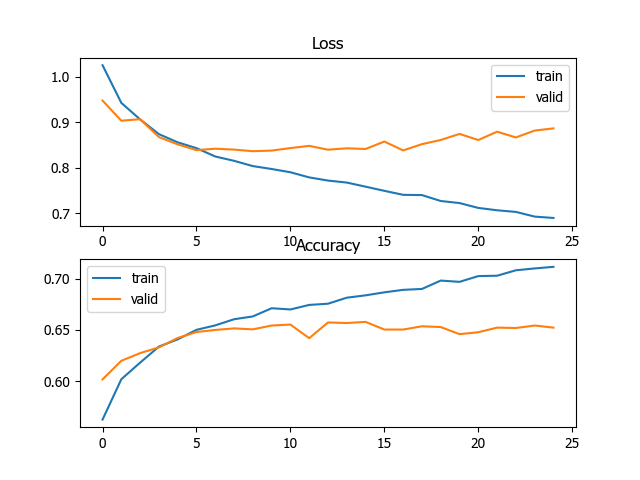
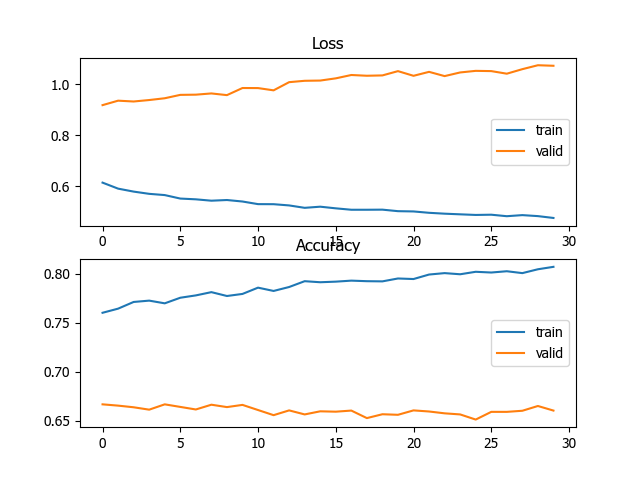
added params searching for base line cnn.

diff --git a/src/models/deep.py b/src/models/deep.py
@@ -1,0 +1,113 @@
+
+'''
+We implemented our CNN and bi-LSTM based on the model arch and param search strategy of the paper: (Pasupa & Seneewong Na Ayutthaya, 2022) 
+'''
+import sys
+
+import numpy as np
+import pandas as pd
+import src.utilities as utils
+import talos
+import tensorflow as tf
+import tensorflow_addons as tfa
+from gensim.models import Word2Vec
+from keras.layers import (LSTM, Conv1D, Dense, Dropout, Embedding, Flatten,
+                          Input, MaxPooling1D)
+from keras.models import Sequential
+from keras.preprocessing.sequence import pad_sequences
+from keras.preprocessing.text import Tokenizer
+from matplotlib import pyplot
+from sklearn.metrics import f1_score
+from sklearn.model_selection import train_test_split
+from tensorflow.keras.utils import to_categorical
+
+config = utils.read_config()
+print("Num GPUs Available: ", len(tf.config.list_physical_devices('GPU')))
+
+EMBEDDING_DIM= 300
+MAX_SEQUENCE_LENGTH = 500
+
+df_ds = pd.read_csv(config['data']['processed_tt'])
+
+y_ds = df_ds['target'].astype('category').cat.codes
+yo = y_ds.to_numpy()
+Xo = df_ds['processed']
+
+arch = sys.argv[1]
+data_name = sys.argv[2]
+print(arch, ", ", data_name)
+w2v = Word2Vec.load(config['models'] + 'w2v_ws_thwiki300.word2vec')
+
+keyed_vectors = w2v.wv  
+weights = keyed_vectors.vectors  
+w2v_keras_layer = Embedding(
+    input_dim=weights.shape[0],
+    output_dim=weights.shape[1],
+    weights=[weights],
+    trainable=True
+)
+
+X_train, X_tmp, y, y_tmp = train_test_split(Xo, yo, test_size=0.4, random_state=0, stratify=yo)
+X_val, X_test, yv, yt = train_test_split(X_tmp, y_tmp, test_size=0.5, random_state=0, stratify=y_tmp)
+
+num_class = np.unique(y).shape[0]
+
+tokenizer  = Tokenizer(num_words = MAX_SEQUENCE_LENGTH)
+tokenizer.fit_on_texts(X_train)
+train_sequences =  tokenizer.texts_to_sequences(X_train)
+valid_sequences = tokenizer.texts_to_sequences(X_val)
+test_sequences = tokenizer.texts_to_sequences(X_test)
+
+vocab_size = len(tokenizer.word_index)
+print("vocab size is:", vocab_size)
+word_index = tokenizer.word_index
+
+
+# pad dataset to a maximum review length in words
+X_train_ps = pad_sequences(train_sequences, maxlen=MAX_SEQUENCE_LENGTH)
+X_val_ps = pad_sequences(valid_sequences, maxlen=MAX_SEQUENCE_LENGTH)
+X_test_ps = pad_sequences(test_sequences, maxlen=MAX_SEQUENCE_LENGTH)
+print(X_train_ps.shape, X_val_ps.shape, X_test_ps.shape)
+
+y_c = to_categorical(y)
+yv_c = to_categorical(yv)
+yt_c = to_categorical(yt)
+
+para = {'dropout':[0.1, 0.2, 0.3, 0.4, 0.5],
+        'num_neurons': [16, 32, 64, 256, 512],
+        'batch_size': [16, 32, 64],
+        'epochs': [30]
+        }
+
+def build_model(X_train_ps, y_c, X_val_ps, yv_c, params):
+    model = Sequential()
+    model.add(Input(shape=(MAX_SEQUENCE_LENGTH,)))
+    model.add(w2v_keras_layer)
+    model.add(Conv1D(params['num_neurons'], 3, activation='relu'))
+    model.add(MaxPooling1D())
+    model.add(Flatten())
+    model.add(Dropout(0.5))
+    model.add(Dense(num_class, activation='softmax'))
+    
+    f1 = tfa.metrics.F1Score(num_classes=np.unique(y).shape[0], average='macro')
+    optimizer = tf.keras.optimizers.Adam(lr=0.001)
+    model.compile(optimizer=optimizer,
+                loss='categorical_crossentropy',
+                metrics=['accuracy' , f1])
+
+
+    out = model.fit(X_train_ps, y_c,
+                        batch_size=params['batch_size'],
+                        epochs=params['epochs'],
+                        validation_data=(X_val_ps, yv_c),
+                        verbose=0,
+                        callbacks=[talos.utils.early_stopper(params['epochs'], monitor='val_accuracy', mode='moderate')])
+
+    return out, model
+
+
+history = talos.Scan(x=X_train_ps, y=y_c, model=build_model, params=para, experiment_name=arch)
+
+r = talos.Reporting(history)
+print("Best model: ", r.high('val_accuracy'))
+print('Experiment terminated properly!')

diff --git a/src/models/test_CNN.py b/src/models/test_CNN.py
@@ -1,26 +1,26 @@
 """_supporting random embeddings and gensim embedding_
 """
+import sys
 from enum import unique
 from msilib import sequence
-import sys
-import pandas as pd 
-import numpy as np 
 
-from gensim.models import Word2Vec
-from sklearn.model_selection import train_test_split
-from keras.preprocessing.text import Tokenizer
-from keras.preprocessing.sequence import pad_sequences
-from keras.models import Sequential, Model
-from keras import layers
-from keras.layers.core import Reshape
-from keras.layers import Input, Dense, Embedding, Conv2D, MaxPooling2D, Dropout
-from tensorflow.keras.utils import to_categorical
-from matplotlib import pyplot
-import src.utilities as utils
+import numpy as np
+import pandas as pd
 import src.feature.build_features as bf
-from src.models.metrics import test_deep
+import src.utilities as utils
 import tensorflow as tf
 import tensorflow_addons as tfa
+from gensim.models import Word2Vec
+from keras import layers
+from keras.layers import Conv2D, Dense, Dropout, Embedding, Input, MaxPooling2D
+from keras.layers.core import Reshape
+from keras.models import Model, Sequential
+from keras.preprocessing.sequence import pad_sequences
+from keras.preprocessing.text import Tokenizer
+from matplotlib import pyplot
+from sklearn.model_selection import train_test_split
+from src.models.metrics import test_deep
+from tensorflow.keras.utils import to_categorical
 
 print("Num GPUs Available: ", len(tf.config.list_physical_devices('GPU')))
 
@@ -122,6 +122,7 @@ for item in range(0, 10):
         model = Model(encoder_input, output)
 
         #model.build(input)
+    callback = tf.keras.callbacks.EarlyStopping(monitor='val_accuracy', patience=5, mode="max", verbose=True)
     model.compile(optimizer='adam',
                 loss='categorical_crossentropy',
                 metrics=['accuracy', f1])
@@ -130,7 +131,7 @@ for item in range(0, 10):
     # fit the model
     history = model.fit(X_train_ps, y_c,
                         epochs=50,
-                        validation_data=(X_val_ps, yv_c),
+                        validation_data=(X_val_ps, yv_c),callbacks=[callback],
                         batch_size=50)
 
     # evaluate model

diff --git a/src/models/test_LSTM.py b/src/models/test_LSTM.py
@@ -43,7 +43,7 @@ def gensim_to_keras_embedding(model, train_embeddings):
 
 file = open(config['output_scratch'] +"BiLSTM_"+iname+ "_ws.csv", "a")
 
-for item in range(9, 10):
+for item in range(0, 10):
     
     X_train, X_tmp, y, y_tmp = train_test_split(Xo, yo, test_size=0.4, random_state=item, stratify=yo)
     X_val, X_test, yv, yt = train_test_split(X_tmp, y_tmp, test_size=0.5, random_state=item, stratify=y_tmp)
@@ -142,7 +142,7 @@ for item in range(9, 10):
 
     # fit the model
     history = model.fit(X_train_ps, y_c,
-                        epochs=30,
+                        epochs=50,
                         validation_data=(X_val_ps, yv_c),
                         batch_size=64)
 
@@ -154,9 +154,8 @@ for item in range(9, 10):
     file.write(str(item) + "," +str(acc) + "," + str(pre) + "," + str(rec) + "," + str(mcc) + "," + str(auc) + "," + str(f1))
     
     # combine train and valid as a training set, train a model and test with unseen data
-    #history = model.fit( np.vstack((X_train_ps, X_val_ps)), np.vstack((y_c, yv_c)), epochs=30, validation_data=(X_test_ps, yt_c), batch_size=50 )
-    #acc, sens, spec, mcc, roc, f1 = test_deep(model, X_test_ps, yt)
-    #file.write("," + str(item) + "," +str(acc) + "," + str(pre) + "," + str(rec) + "," + str(mcc) + "," + str(auc) + "," + str(f1) + "\n")
+    acc, pre, rec, mcc, auc, f1 = test_deep(model, np.vstack((X_test_ps, X_test_ps)), np.hstack((yt, yt)))
+    file.write("," + str(item) + "," +str(acc) + "," + str(pre) + "," + str(rec) + "," + str(mcc) + "," + str(auc) + "," + str(f1) + "\n")
 file.close()
 
 # plot loss during training
